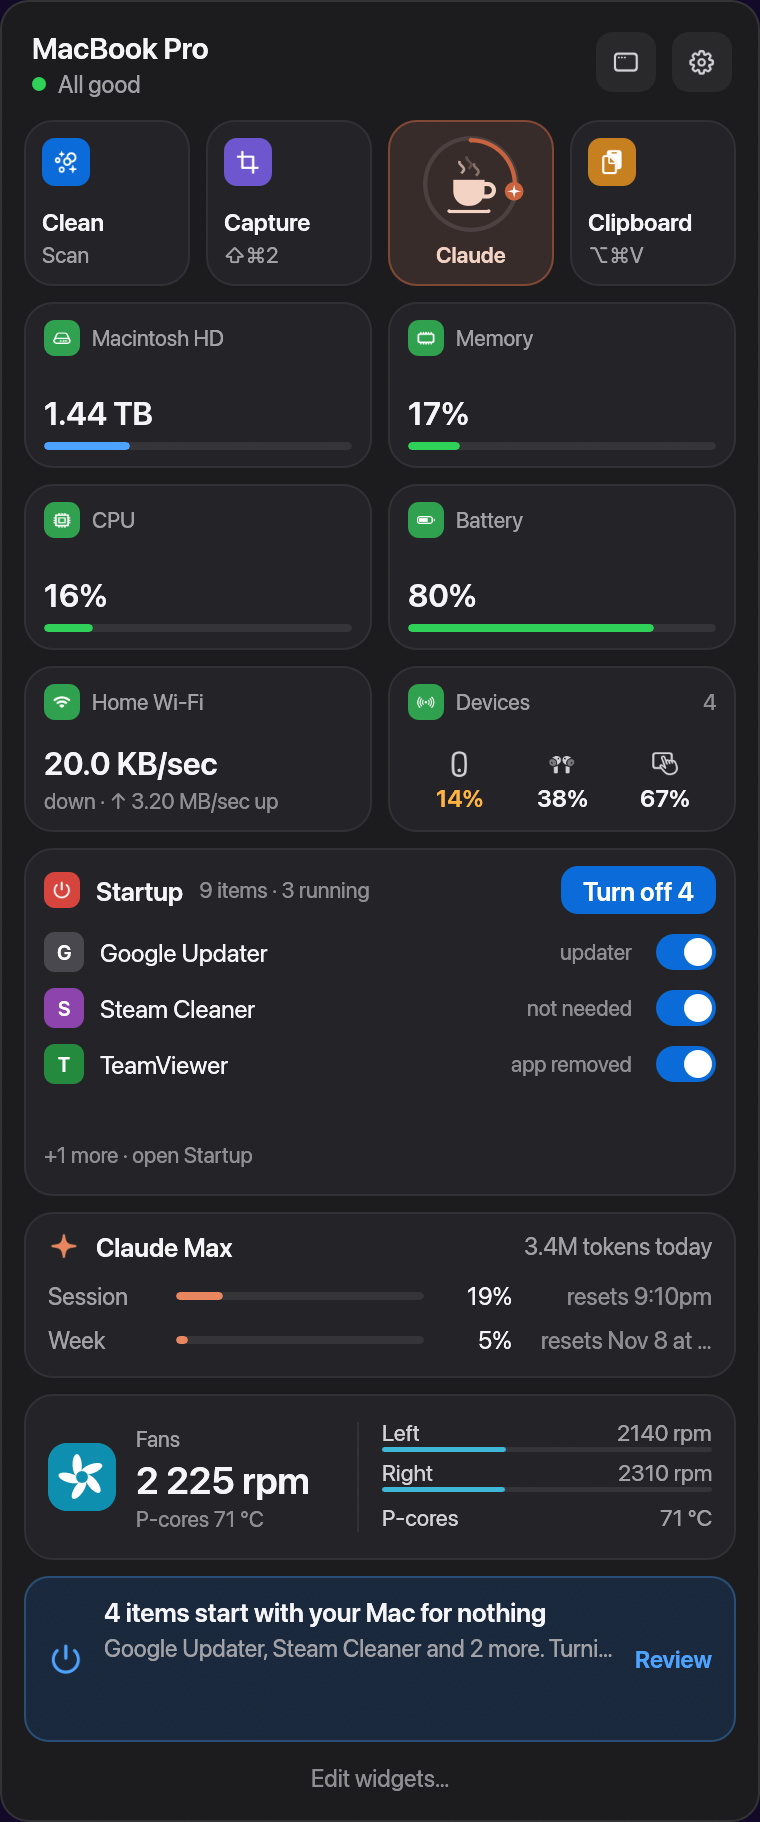
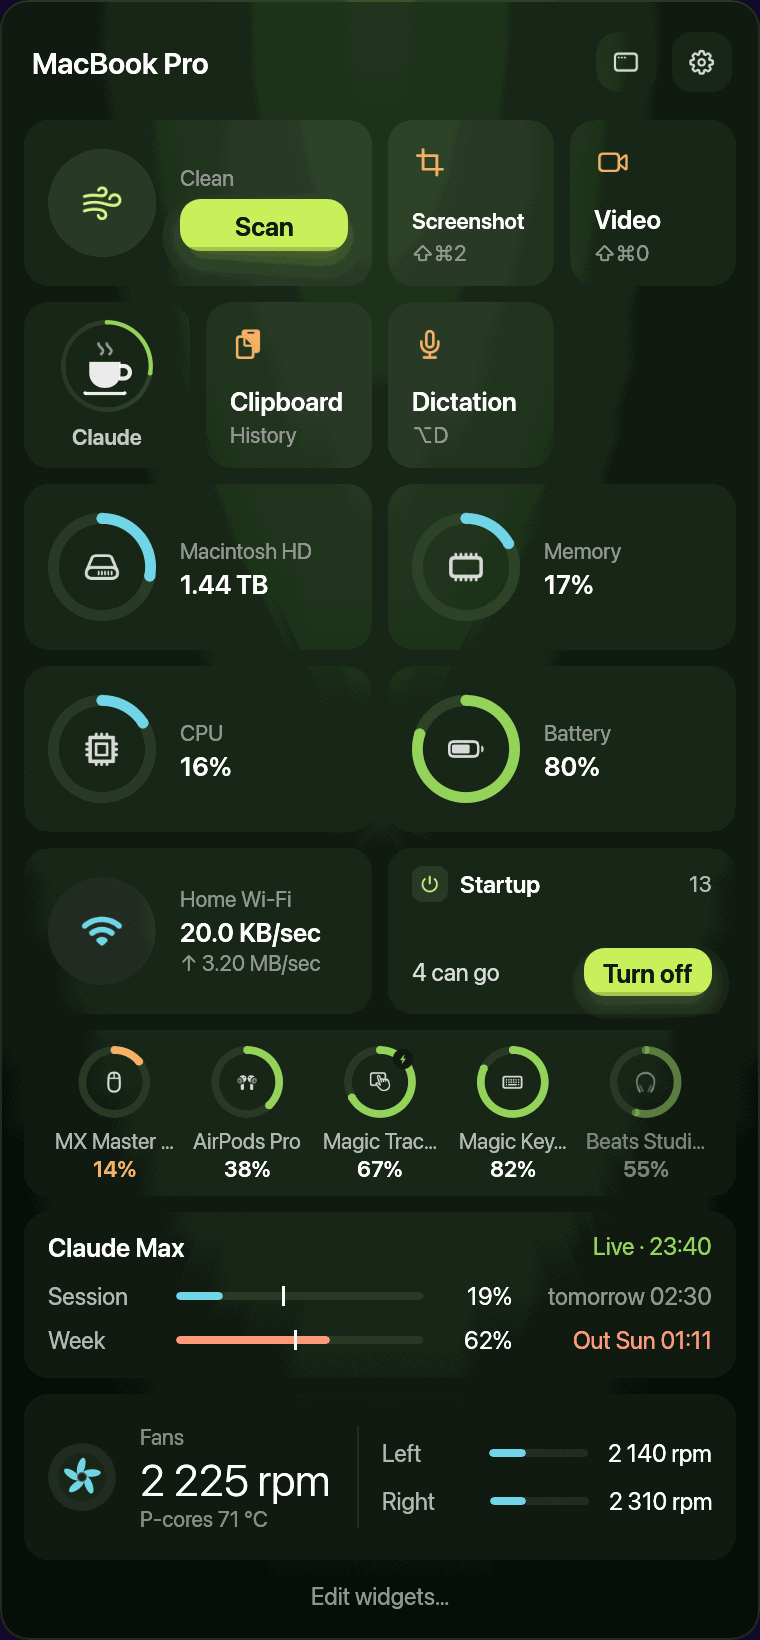
README: fresh screenshots (#148)
* Site: clear message, one app instead of ten, clickable app window

- Hero: 'Everything your Mac needs. Free.' + free, open-source CleanMyMac alternative line, facts row
- New sections: One app instead of ten, Yours to keep, Install (with the Open Anyway step)
- play.js: every pane in the app window reacts (Cleanup allow/keep/clean, Disk Map zoom, Uninstaller, Startup filters, speed test, AI providers, fan modes, drawing on the screenshot, recording, clipboard search, dictation on Option-D, displays sliders) and a feature strip per tool
- Cleanup and Startup panes rebuilt to match the app
- CleanMyMac named in plain text with a trademark line (Roman OK'd)

Claude-Session: https://claude.ai/code/session_01384rfTdmX5wTY2g2PdiHqB

* Site: One icon for every job, with the paid apps each tool replaces

Ten menu bar icons fold into the Cmd+Meow icon; jobs grouped Clean / Monitor / Create / Utilities, each opens its tool and names the paid app it replaces (plain text, trademark line in the footer).

Claude-Session: https://claude.ai/code/session_01384rfTdmX5wTY2g2PdiHqB

* Site: clearer hero, trimmed panel, gear icon, shorter trust and install copy

Claude-Session: https://claude.ai/code/session_01384rfTdmX5wTY2g2PdiHqB

* Site: menu bar before/after as screen strips, No catch cards, drop Install section

Claude-Session: https://claude.ai/code/session_01384rfTdmX5wTY2g2PdiHqB

* Site: fix demo review findings (selection totals, Disk Map picks, Pin, keyboard, reduced motion)
[…]

diff --git a/README.md b/README.md
@@ -63,6 +63,11 @@ yourself.
   <img src="docs/images/lens.png" width="760" alt="Disk Map">
 </p>
 
+<p align="center">
+  <img src="docs/images/ai-usage.png" width="374" alt="AI Usage">
+  <img src="docs/images/clipboard.png" width="374" alt="Clipboard history">
+</p>
+
 ### Instead of
 
 CleanMyMac, DaisyDisk, CleanShot X, Loom, Paste, iStat Menus, Wispr Flow and
